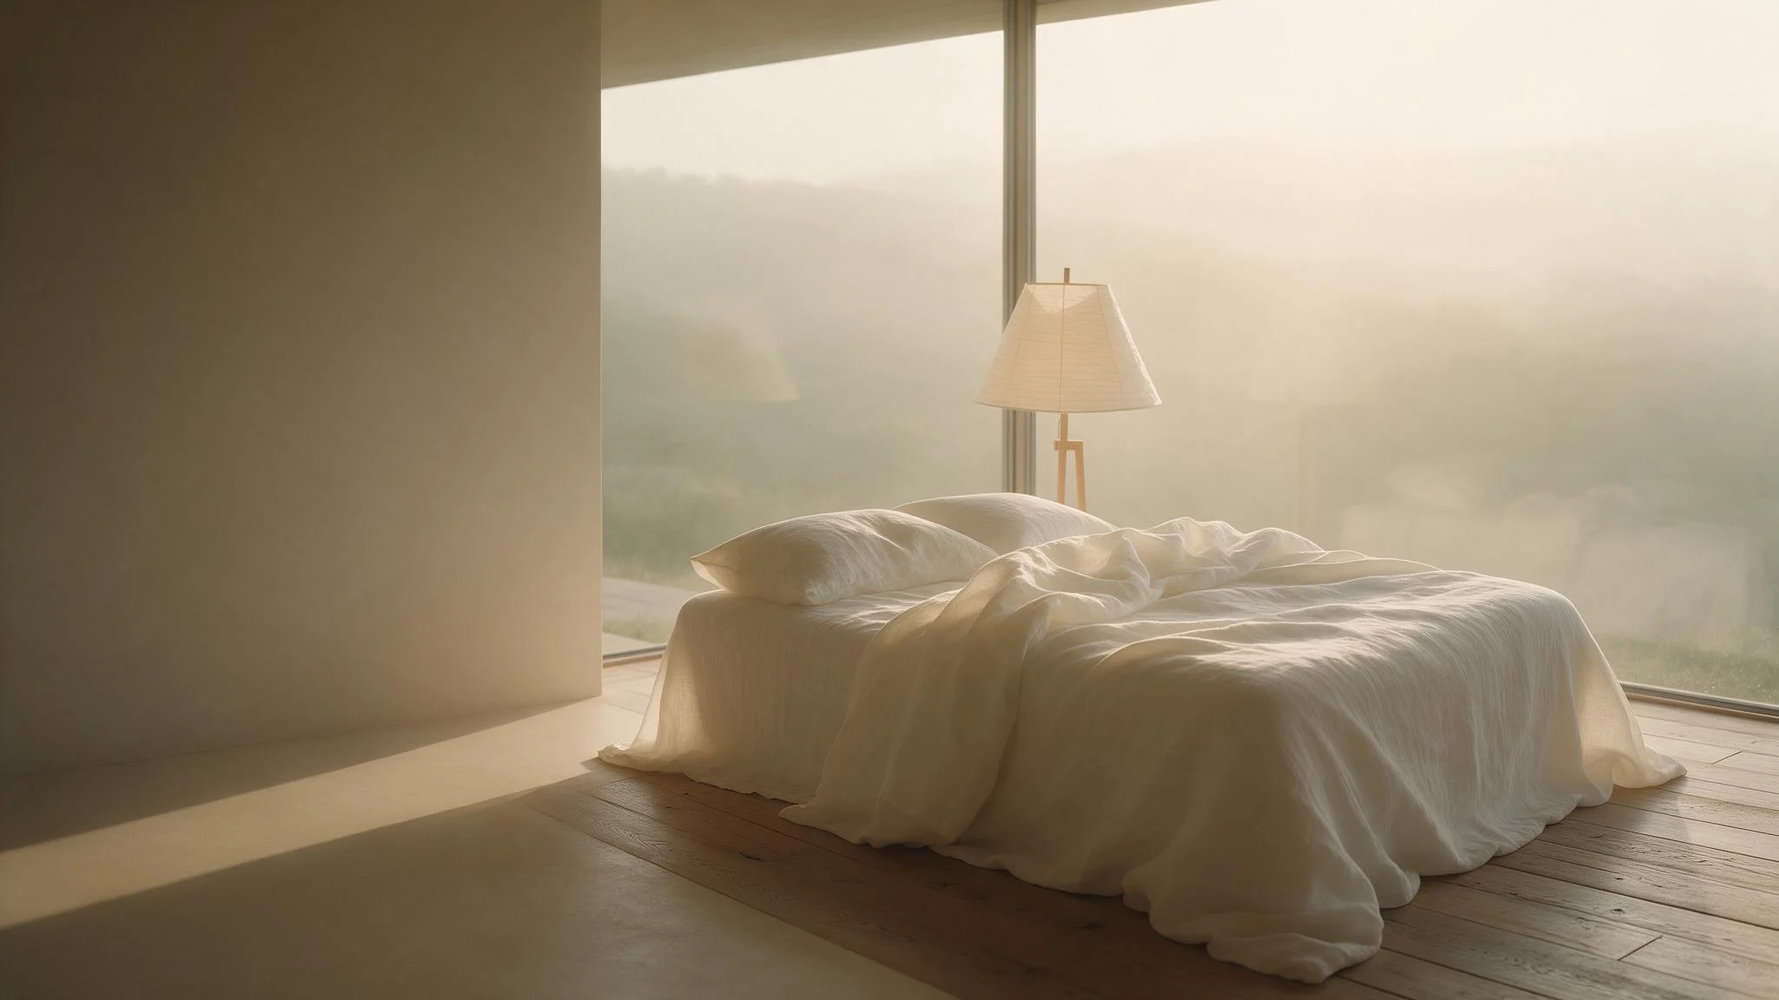
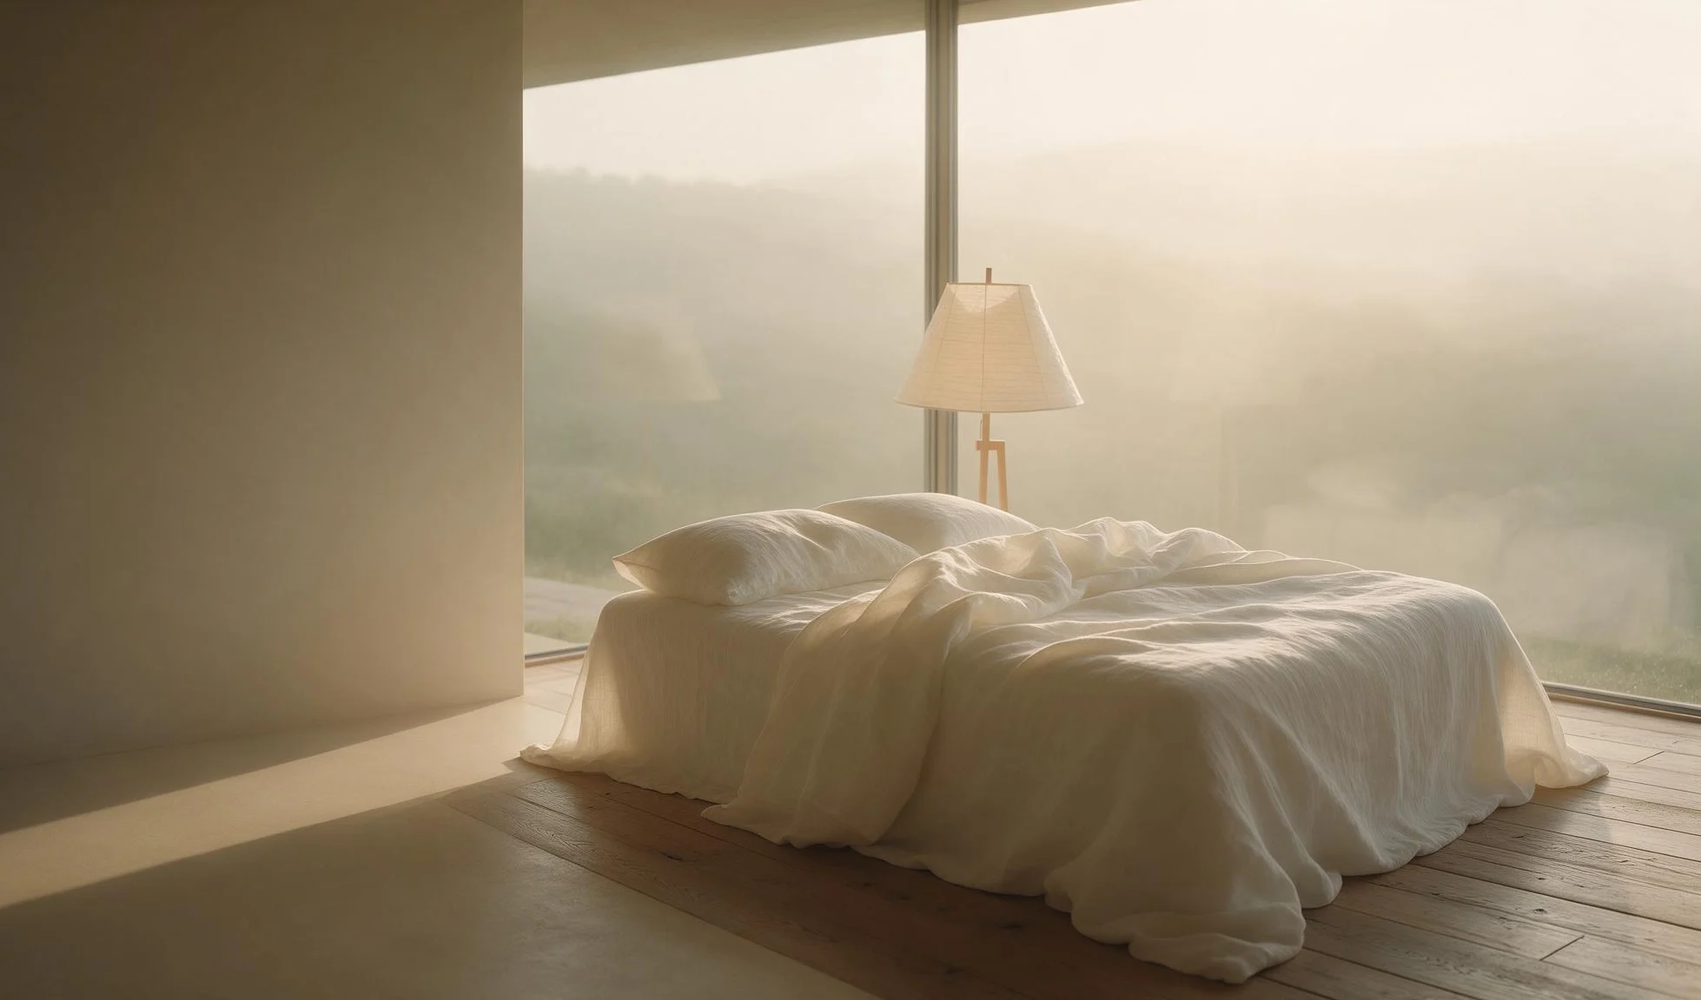
hero: B版微调定稿——全端去滤镜、导航深炭色、桌面左裁90px
- V2Hero: 全端去除渐变暗罩；桌面标题 5xl 两行左下（左移200px+上移70px）；
  移动端文字上移至中部偏上（pb-9svh）
- V2Header: 透明态导航文字/图标全端改深炭色；logo 桌面反白、移动深色原图
- hero-mist-desktop: 源图左裁 90px，右窗景加宽；hero-mist-mobile: 左裁15%（灯靠中）
- gitignore: 新增 scripts/.ark-api-key-2（第二把火山引擎 key，本地切换用）

diff --git a/src/data/product-weights.ts b/src/data/product-weights.ts
@@ -1,6 +1,6 @@
 // Auto-generated by scripts/build-weights.js
 // DO NOT EDIT MANUALLY - 人工赋权改 src/data/weights-overrides.ts 后重跑本脚本
-// Generated at: 2026-10-27T11:22:00.319Z
+// Generated at: 2026-10-27T13:19:45.616Z
 
 export interface ProductWeight {
   /** 一级类目（同分破平用类目平均分） */
@@ -67,11 +67,11 @@ export const PRODUCT_WEIGHTS: Record<string, ProductWeight> = {
   "mk-pc-cord-olive-45": {"type":"Pillows","score":26.3,"perf":26.3,"boost":0},
   "mk-pc-cord-dustyblue": {"type":"Pillows","score":26.4,"perf":26.4,"boost":0},
   "mk-pc-cord-dustyblue-45": {"type":"Pillows","score":26.2,"perf":26.2,"boost":0},
-  "mk-pc-cord-charcoal": {"type":"Pillows","score":25.9,"perf":25.9,"boost":0},
+  "mk-pc-cord-charcoal": {"type":"Pillows","score":25.8,"perf":25.8,"boost":0},
   "mk-pc-cord-charcoal-45": {"type":"Pillows","score":26.3,"perf":26.3,"boost":0},
-  "mk-pc-ctn-sage": {"type":"Pillows","score":26.1,"perf":26.1,"boost":0},
+  "mk-pc-ctn-sage": {"type":"Pillows","score":26,"perf":26,"boost":0},
   "mk-pc-ctn-sage-45": {"type":"Pillows","score":25.9,"perf":25.9,"boost":0},
-  "mk-pc-ctn-cream": {"type":"Pillows","score":26.1,"perf":26.1,"boost":0},
+  "mk-pc-ctn-cream": {"type":"Pillows","score":26,"perf":26,"boost":0},
   "mk-pc-ctn-cream-45": {"type":"Pillows","score":26,"perf":26,"boost":0},
   "mk-pc-ctn-blush": {"type":"Pillows","score":26.1,"perf":26.1,"boost":0},
   "mk-pc-ctn-blush-45": {"type":"Pillows","score":26.1,"perf":26.1,"boost":0},
@@ -84,44 +84,44 @@ export const PRODUCT_WEIGHTS: Record<string, ProductWeight> = {
   "mk-cushion-cord-olive": {"type":"Cushions","score":21.1,"perf":21.1,"boost":0},
   "mk-cushion-cord-dustyblue": {"type":"Cushions","score":21.1,"perf":21.1,"boost":0},
   "mk-pc-boucle-white-45": {"type":"Pillows","score":28.6,"perf":28.6,"boost":0},
-  "mk-pc-boucle-oatmeal-45": {"type":"Pillows","score":28.7,"perf":28.7,"boost":0},
-  "mk-pc-boucle-dustyrose-45": {"type":"Pillows","score":28.5,"perf":28.5,"boost":0},
+  "mk-pc-boucle-oatmeal-45": {"type":"Pillows","score":28.6,"perf":28.6,"boost":0},
+  "mk-pc-boucle-dustyrose-45": {"type":"Pillows","score":28.4,"perf":28.4,"boost":0},
   "mk-pc-boucle-sage-45": {"type":"Pillows","score":28.1,"perf":28.1,"boost":0},
   "mk-pc-boucle-white": {"type":"Pillows","score":28.7,"perf":28.7,"boost":0},
   "mk-pc-boucle-oatmeal": {"type":"Pillows","score":28.3,"perf":28.3,"boost":0},
   "mk-pc-boucle-dustyrose": {"type":"Pillows","score":28.7,"perf":28.7,"boost":0},
   "mk-pc-boucle-sage": {"type":"Pillows","score":28.3,"perf":28.3,"boost":0},
   "mk-towel-lsc-cream-12x12": {"type":"Towels","score":16,"perf":16,"boost":0},
-  "mk-towel-lsc-cream-20x30": {"type":"Towels","score":16.1,"perf":16.1,"boost":0},
-  "mk-towel-lsc-cream-30x56": {"type":"Towels","score":16.1,"perf":16.1,"boost":0},
-  "mk-towel-lsc-cream-40x70": {"type":"Towels","score":16.1,"perf":16.1,"boost":0},
-  "mk-towel-lsc-oatmeal-12x12": {"type":"Towels","score":16.1,"perf":16.1,"boost":0},
-  "mk-towel-lsc-oatmeal-20x30": {"type":"Towels","score":16.1,"perf":16.1,"boost":0},
-  "mk-towel-lsc-oatmeal-30x56": {"type":"Towels","score":16.1,"perf":16.1,"boost":0},
-  "mk-towel-lsc-oatmeal-40x70": {"type":"Towels","score":16.1,"perf":16.1,"boost":0},
-  "mk-towel-lsc-sage-12x12": {"type":"Towels","score":16.1,"perf":16.1,"boost":0},
-  "mk-towel-lsc-sage-20x30": {"type":"Towels","score":16.1,"perf":16.1,"boost":0},
-  "mk-towel-lsc-sage-30x56": {"type":"Towels","score":16.1,"perf":16.1,"boost":0},
-  "mk-towel-lsc-sage-40x70": {"type":"Towels","score":16.1,"perf":16.1,"boost":0},
-  "mk-towel-lsc-dustyrose-12x12": {"type":"Towels","score":16.1,"perf":16.1,"boost":0},
-  "mk-towel-lsc-dustyrose-20x30": {"type":"Towels","score":16.1,"perf":16.1,"boost":0},
-  "mk-towel-lsc-dustyrose-30x56": {"type":"Towels","score":16.1,"perf":16.1,"boost":0},
-  "mk-towel-lsc-dustyrose-40x70": {"type":"Towels","score":16.1,"perf":16.1,"boost":0},
-  "mk-towel-lsc-lightgrey-12x12": {"type":"Towels","score":16.1,"perf":16.1,"boost":0},
-  "mk-towel-lsc-lightgrey-20x30": {"type":"Towels","score":16.1,"perf":16.1,"boost":0},
-  "mk-towel-lsc-lightgrey-30x56": {"type":"Towels","score":16.1,"perf":16.1,"boost":0},
-  "mk-towel-lsc-lightgrey-40x70": {"type":"Towels","score":16.1,"perf":16.1,"boost":0},
-  "mk-towel-lsc-dustyblue-12x12": {"type":"Towels","score":16.1,"perf":16.1,"boost":0},
-  "mk-towel-lsc-dustyblue-20x30": {"type":"Towels","score":16.1,"perf":16.1,"boost":0},
-  "mk-towel-lsc-dustyblue-30x56": {"type":"Towels","score":16.1,"perf":16.1,"boost":0},
-  "mk-towel-lsc-dustyblue-40x70": {"type":"Towels","score":16.1,"perf":16.1,"boost":0},
+  "mk-towel-lsc-cream-20x30": {"type":"Towels","score":16,"perf":16,"boost":0},
+  "mk-towel-lsc-cream-30x56": {"type":"Towels","score":16,"perf":16,"boost":0},
+  "mk-towel-lsc-cream-40x70": {"type":"Towels","score":16,"perf":16,"boost":0},
+  "mk-towel-lsc-oatmeal-12x12": {"type":"Towels","score":16,"perf":16,"boost":0},
+  "mk-towel-lsc-oatmeal-20x30": {"type":"Towels","score":16,"perf":16,"boost":0},
+  "mk-towel-lsc-oatmeal-30x56": {"type":"Towels","score":16,"perf":16,"boost":0},
+  "mk-towel-lsc-oatmeal-40x70": {"type":"Towels","score":16,"perf":16,"boost":0},
+  "mk-towel-lsc-sage-12x12": {"type":"Towels","score":16,"perf":16,"boost":0},
+  "mk-towel-lsc-sage-20x30": {"type":"Towels","score":16,"perf":16,"boost":0},
+  "mk-towel-lsc-sage-30x56": {"type":"Towels","score":16,"perf":16,"boost":0},
+  "mk-towel-lsc-sage-40x70": {"type":"Towels","score":16,"perf":16,"boost":0},
+  "mk-towel-lsc-dustyrose-12x12": {"type":"Towels","score":16,"perf":16,"boost":0},
+  "mk-towel-lsc-dustyrose-20x30": {"type":"Towels","score":16,"perf":16,"boost":0},
+  "mk-towel-lsc-dustyrose-30x56": {"type":"Towels","score":16,"perf":16,"boost":0},
+  "mk-towel-lsc-dustyrose-40x70": {"type":"Towels","score":16,"perf":16,"boost":0},
+  "mk-towel-lsc-lightgrey-12x12": {"type":"Towels","score":16,"perf":16,"boost":0},
+  "mk-towel-lsc-lightgrey-20x30": {"type":"Towels","score":16,"perf":16,"boost":0},
+  "mk-towel-lsc-lightgrey-30x56": {"type":"Towels","score":16,"perf":16,"boost":0},
+  "mk-towel-lsc-lightgrey-40x70": {"type":"Towels","score":16,"perf":16,"boost":0},
+  "mk-towel-lsc-dustyblue-12x12": {"type":"Towels","score":16,"perf":16,"boost":0},
+  "mk-towel-lsc-dustyblue-20x30": {"type":"Towels","score":16,"perf":16,"boost":0},
+  "mk-towel-lsc-dustyblue-30x56": {"type":"Towels","score":16,"perf":16,"boost":0},
+  "mk-towel-lsc-dustyblue-40x70": {"type":"Towels","score":16,"perf":16,"boost":0},
   "linen3-caramel-queen": {"type":"Bedding","score":9.7,"perf":9.7,"boost":0},
   "b0f62y3xt9": {"type":"Pillows","score":21.8,"perf":21.8,"boost":0},
   "b0f62zy8zn": {"type":"Pillows","score":21.8,"perf":21.8,"boost":0},
-  "b0gjlpxb6f": {"type":"Cushions","score":45.9,"perf":21.9,"boost":24},
+  "b0gjlpxb6f": {"type":"Cushions","score":45.8,"perf":21.8,"boost":24},
   "b0gjlrgvdj": {"type":"Cushions","score":20.4,"perf":20.4,"boost":0},
   "b0gjsttgy5": {"type":"Cushions","score":20.4,"perf":20.4,"boost":0},
-  "b0f1ydrdtx": {"type":"Cushions","score":21.9,"perf":21.9,"boost":0},
+  "b0f1ydrdtx": {"type":"Cushions","score":21.8,"perf":21.8,"boost":0},
   "b0f1v8vmp4": {"type":"Cushions","score":22.4,"perf":22.4,"boost":0},
   "b0dsgfxldv": {"type":"Cushions","score":19,"perf":19,"boost":0},
   "b0dsgclbvw": {"type":"Cushions","score":19,"perf":19,"boost":0},
@@ -129,7 +129,7 @@ export const PRODUCT_WEIGHTS: Record<string, ProductWeight> = {
   "b0dsgckwxw": {"type":"Cushions","score":19,"perf":19,"boost":0},
   "b0cbt8fzwf": {"type":"Cushions","score":19,"perf":19,"boost":0},
   "b0gxwm4n7j": {"type":"Pillows","score":22.5,"perf":22.5,"boost":0},
-  "b0gd87zbn9": {"type":"Pillows","score":22.5,"perf":22.5,"boost":0},
+  "b0gd87zbn9": {"type":"Pillows","score":22.4,"perf":22.4,"boost":0},
   "b0g6lxsf4t": {"type":"Pillows","score":21.7,"perf":21.7,"boost":0},
   "b0gd846fs2": {"type":"Pillows","score":23,"perf":23,"boost":0},
   "b0bcjw18sp": {"type":"Cushions","score":21,"perf":21,"boost":0},
@@ -140,32 +140,32 @@ export const PRODUCT_WEIGHTS: Record<string, ProductWeight> = {
   "828008656438-c2": {"type":"Mats","score":22.2,"perf":22.2,"boost":0},
   "952595759182": {"type":"Towels","score":19.3,"perf":19.3,"boost":0},
   "952595759182-c2": {"type":"Towels","score":20.6,"perf":20.6,"boost":0},
-  "952595759182-c3": {"type":"Towels","score":20.8,"perf":20.8,"boost":0},
-  "952595759182-c4": {"type":"Towels","score":19.3,"perf":19.3,"boost":0},
+  "952595759182-c3": {"type":"Towels","score":20.7,"perf":20.7,"boost":0},
+  "952595759182-c4": {"type":"Towels","score":19.2,"perf":19.2,"boost":0},
   "828008656438": {"type":"Mats","score":22.3,"perf":22.3,"boost":0},
   "1038477616596": {"type":"Mats","score":20.9,"perf":20.9,"boost":0},
   "985677811504": {"type":"Mats","score":22.9,"perf":22.9,"boost":0},
   "1016436401519": {"type":"Mats","score":22.9,"perf":22.9,"boost":0},
   "1038477616596-c2": {"type":"Mats","score":20.2,"perf":20.2,"boost":0},
   "895014679429": {"type":"Mats","score":21.5,"perf":21.5,"boost":0},
-  "1046667161713": {"type":"Mats","score":22.3,"perf":22.3,"boost":0},
+  "1046667161713": {"type":"Mats","score":22.2,"perf":22.2,"boost":0},
   "1064068114006": {"type":"Mats","score":23,"perf":23,"boost":0},
   "1064068114006-c2": {"type":"Mats","score":23.6,"perf":23.6,"boost":0},
   "1052755373494": {"type":"Mats","score":48.5,"perf":23.5,"boost":25},
   "1052755373494-c2": {"type":"Mats","score":23,"perf":23,"boost":0},
-  "1046667161713-c2": {"type":"Mats","score":21.8,"perf":21.8,"boost":0},
+  "1046667161713-c2": {"type":"Mats","score":21.7,"perf":21.7,"boost":0},
   "969627065032-c33": {"type":"Blankets","score":21.7,"perf":21.7,"boost":0},
   "744995685423-c2": {"type":"Mats","score":21.7,"perf":21.7,"boost":0},
   "595229918569-c2": {"type":"Mats","score":23.2,"perf":23.2,"boost":0},
   "744995685423": {"type":"Mats","score":21.7,"perf":21.7,"boost":0},
   "595229918569": {"type":"Mats","score":21.7,"perf":21.7,"boost":0},
   "745181807454-c3": {"type":"Mats","score":21.7,"perf":21.7,"boost":0},
-  "745181807454-c2": {"type":"Mats","score":22.5,"perf":22.5,"boost":0},
+  "745181807454-c2": {"type":"Mats","score":22.4,"perf":22.4,"boost":0},
   "996768645117": {"type":"Mats","score":21.7,"perf":21.7,"boost":0},
   "745181807454": {"type":"Mats","score":23.1,"perf":23.1,"boost":0},
   "996768645117-c2": {"type":"Mats","score":23.9,"perf":23.9,"boost":0},
   "996768645117-c3": {"type":"Mats","score":48.9,"perf":23.9,"boost":25},
-  "595229918569-c3": {"type":"Mats","score":23.3,"perf":23.3,"boost":0},
+  "595229918569-c3": {"type":"Mats","score":23.2,"perf":23.2,"boost":0},
   "745181807454-c4": {"type":"Mats","score":23.2,"perf":23.2,"boost":0},
   "745181807454-c6": {"type":"Mats","score":23.9,"perf":23.9,"boost":0},
   "745181807454-c5": {"type":"Mats","score":49,"perf":24,"boost":25},
@@ -182,10 +182,10 @@ export const PRODUCT_WEIGHTS: Record<string, ProductWeight> = {
   "969627065032-c37": {"type":"Blankets","score":24.5,"perf":24.5,"boost":0},
   "969627065032-c36": {"type":"Blankets","score":23.2,"perf":23.2,"boost":0},
   "969627065032-c35": {"type":"Blankets","score":24,"perf":24,"boost":0},
-  "969627065032-c34": {"type":"Blankets","score":23.8,"perf":23.8,"boost":0},
+  "969627065032-c34": {"type":"Blankets","score":23.7,"perf":23.7,"boost":0},
   "969627065032-c32": {"type":"Blankets","score":49,"perf":24,"boost":25},
   "969627065032-c31": {"type":"Blankets","score":24,"perf":24,"boost":0},
-  "969627065032-c30": {"type":"Blankets","score":23.9,"perf":23.9,"boost":0},
+  "969627065032-c30": {"type":"Blankets","score":23.8,"perf":23.8,"boost":0},
   "969627065032-c29": {"type":"Blankets","score":24.7,"perf":24.7,"boost":0},
   "969627065032-c28": {"type":"Blankets","score":48.8,"perf":23.8,"boost":25},
   "969627065032-c27": {"type":"Blankets","score":24,"perf":24,"boost":0},
@@ -218,7 +218,7 @@ export const PRODUCT_WEIGHTS: Record<string, ProductWeight> = {
   "duvset-white-queen": {"type":"Bedding","score":25.2,"perf":25.2,"boost":0},
   "duvset-white-twin": {"type":"Bedding","score":53.9,"perf":23.9,"boost":30},
   "bedset4-lilac-twin": {"type":"Bedding","score":25.2,"perf":25.2,"boost":0},
-  "bedset4-lilac-full": {"type":"Bedding","score":25.3,"perf":25.3,"boost":0},
+  "bedset4-lilac-full": {"type":"Bedding","score":25.2,"perf":25.2,"boost":0},
   "bedset4-lilac-queen": {"type":"Bedding","score":26,"perf":26,"boost":0},
   "bedset4-lilac-king": {"type":"Bedding","score":24.1,"perf":24.1,"boost":0},
   "bedset4-slate-twin": {"type":"Bedding","score":26.1,"perf":26.1,"boost":0},
@@ -226,14 +226,14 @@ export const PRODUCT_WEIGHTS: Record<string, ProductWeight> = {
   "bedset4-slate-queen": {"type":"Bedding","score":56,"perf":26,"boost":30},
   "bedset4-slate-king": {"type":"Bedding","score":26.1,"perf":26.1,"boost":0},
   "bedset4-tan-twin": {"type":"Bedding","score":24.8,"perf":24.8,"boost":0},
-  "bedset4-tan-full": {"type":"Bedding","score":23.4,"perf":23.4,"boost":0},
+  "bedset4-tan-full": {"type":"Bedding","score":23.3,"perf":23.3,"boost":0},
   "bedset4-tan-queen": {"type":"Bedding","score":26.1,"perf":26.1,"boost":0},
   "bedset4-tan-king": {"type":"Bedding","score":24.1,"perf":24.1,"boost":0},
   "bedset4-sage-twin": {"type":"Bedding","score":24.9,"perf":24.9,"boost":0},
   "bedset4-sage-full": {"type":"Bedding","score":23.4,"perf":23.4,"boost":0},
   "bedset4-sage-queen": {"type":"Bedding","score":55.2,"perf":25.2,"boost":30},
   "bedset4-sage-king": {"type":"Bedding","score":24.7,"perf":24.7,"boost":0},
-  "bedset4-mauve-twin": {"type":"Bedding","score":23.4,"perf":23.4,"boost":0},
+  "bedset4-mauve-twin": {"type":"Bedding","score":23.3,"perf":23.3,"boost":0},
   "bedset4-mauve-full": {"type":"Bedding","score":23.9,"perf":23.9,"boost":0},
   "bedset4-mauve-queen": {"type":"Bedding","score":26.9,"perf":26.9,"boost":0},
   "bedset4-mauve-king": {"type":"Bedding","score":23.4,"perf":23.4,"boost":0},
@@ -241,7 +241,7 @@ export const PRODUCT_WEIGHTS: Record<string, ProductWeight> = {
   "bedset4-moss-full": {"type":"Bedding","score":24.1,"perf":24.1,"boost":0},
   "bedset4-moss-queen": {"type":"Bedding","score":54.9,"perf":24.9,"boost":30},
   "bedset4-moss-king": {"type":"Bedding","score":23.3,"perf":23.3,"boost":0},
-  "bedset4-coffee-twin": {"type":"Bedding","score":23.3,"perf":23.3,"boost":0},
+  "bedset4-coffee-twin": {"type":"Bedding","score":23.2,"perf":23.2,"boost":0},
   "bedset4-coffee-full": {"type":"Bedding","score":24,"perf":24,"boost":0},
   "bedset4-coffee-queen": {"type":"Bedding","score":53.4,"perf":23.4,"boost":30},
   "bedset4-coffee-king": {"type":"Bedding","score":26.9,"perf":26.9,"boost":0},
@@ -250,10 +250,10 @@ export const PRODUCT_WEIGHTS: Record<string, ProductWeight> = {
   "bedset4-blue-queen": {"type":"Bedding","score":53.4,"perf":23.4,"boost":30},
   "bedset4-blue-king": {"type":"Bedding","score":24.9,"perf":24.9,"boost":0},
   "bedset4-plaid-twin": {"type":"Bedding","score":25.4,"perf":25.4,"boost":0},
-  "bedset4-plaid-full": {"type":"Bedding","score":23.4,"perf":23.4,"boost":0},
+  "bedset4-plaid-full": {"type":"Bedding","score":23.3,"perf":23.3,"boost":0},
   "bedset4-plaid-queen": {"type":"Bedding","score":54.1,"perf":24.1,"boost":30},
   "bedset4-plaid-king": {"type":"Bedding","score":53.4,"perf":23.4,"boost":30},
-  "linen3-sage-twin": {"type":"Bedding","score":57.2,"perf":27.2,"boost":30},
+  "linen3-sage-twin": {"type":"Bedding","score":57.1,"perf":27.1,"boost":30},
   "linen3-sage-full": {"type":"Bedding","score":26.5,"perf":26.5,"boost":0},
   "linen3-sage-queen": {"type":"Bedding","score":55.8,"perf":25.8,"boost":30},
   "linen3-sage-king": {"type":"Bedding","score":26.3,"perf":26.3,"boost":0},
@@ -268,8 +268,8 @@ export const PRODUCT_WEIGHTS: Record<string, ProductWeight> = {
   "linen3-ivory-twin": {"type":"Bedding","score":25.7,"perf":25.7,"boost":0},
   "linen3-ivory-full": {"type":"Bedding","score":27.1,"perf":27.1,"boost":0},
   "linen3-ivory-queen": {"type":"Bedding","score":57.2,"perf":27.2,"boost":30},
-  "linen3-ivory-king": {"type":"Bedding","score":27.1,"perf":27.1,"boost":0},
-  "linen3-oatmeal-twin": {"type":"Bedding","score":27.3,"perf":27.3,"boost":0},
+  "linen3-ivory-king": {"type":"Bedding","score":27,"perf":27,"boost":0},
+  "linen3-oatmeal-twin": {"type":"Bedding","score":27.2,"perf":27.2,"boost":0},
   "linen3-oatmeal-full": {"type":"Bedding","score":25.8,"perf":25.8,"boost":0},
   "linen3-oatmeal-queen": {"type":"Bedding","score":56.4,"perf":26.4,"boost":30},
   "linen3-oatmeal-king": {"type":"Bedding","score":27,"perf":27,"boost":0},
@@ -281,11 +281,11 @@ export const PRODUCT_WEIGHTS: Record<string, ProductWeight> = {
   "899672152256-c52": {"type":"Decor","score":26.6,"perf":26.6,"boost":0},
   "899672152256-c61": {"type":"Decor","score":27.5,"perf":27.5,"boost":0},
   "899672152256-c70": {"type":"Decor","score":26,"perf":26,"boost":0},
-  "899672152256-c78": {"type":"Decor","score":26,"perf":26,"boost":0},
+  "899672152256-c78": {"type":"Decor","score":25.9,"perf":25.9,"boost":0},
   "899672152256-c85": {"type":"Decor","score":26,"perf":26,"boost":0},
   "743606980882-c2": {"type":"Decor","score":22,"perf":22,"boost":0},
-  "743606980882-c10": {"type":"Decor","score":26.8,"perf":26.8,"boost":0},
-  "743606980882-c20": {"type":"Decor","score":27.5,"perf":27.5,"boost":0},
+  "743606980882-c10": {"type":"Decor","score":26.7,"perf":26.7,"boost":0},
+  "743606980882-c20": {"type":"Decor","score":27.4,"perf":27.4,"boost":0},
   "743606980882-c32": {"type":"Decor","score":25.8,"perf":25.8,"boost":0},
   "743606980882-c41": {"type":"Decor","score":26,"perf":26,"boost":0},
   "743606980882-c52": {"type":"Decor","score":26.7,"perf":26.7,"boost":0},
@@ -297,15 +297,15 @@ export const PRODUCT_WEIGHTS: Record<string, ProductWeight> = {
   "663341114084-c3": {"type":"Decor","score":26,"perf":26,"boost":0},
   "807393887857-c2": {"type":"Decor","score":27.4,"perf":27.4,"boost":0},
   "807393887857-c3": {"type":"Decor","score":27.3,"perf":27.3,"boost":0},
-  "807393887857-c4": {"type":"Decor","score":26,"perf":26,"boost":0},
+  "807393887857-c4": {"type":"Decor","score":25.9,"perf":25.9,"boost":0},
   "807393887857-c5": {"type":"Decor","score":27.5,"perf":27.5,"boost":0},
   "807393887857-c6": {"type":"Decor","score":26,"perf":26,"boost":0},
   "1052742241013-c12": {"type":"Mats","score":26.5,"perf":26.5,"boost":0},
   "1052742241013-c11": {"type":"Mats","score":25,"perf":25,"boost":0},
-  "1052742241013-c10": {"type":"Mats","score":26.5,"perf":26.5,"boost":0},
+  "1052742241013-c10": {"type":"Mats","score":26.4,"perf":26.4,"boost":0},
   "1052742241013-c9": {"type":"Mats","score":25,"perf":25,"boost":0},
   "1052742241013-c8": {"type":"Mats","score":26.4,"perf":26.4,"boost":0},
-  "1052742241013-c7": {"type":"Mats","score":25,"perf":25,"boost":0},
+  "1052742241013-c7": {"type":"Mats","score":24.9,"perf":24.9,"boost":0},
   "730512046265-c19": {"type":"Decor","score":27,"perf":27,"boost":0},
   "730512046265-c18": {"type":"Decor","score":25.8,"perf":25.8,"boost":0},
   "730512046265-c17": {"type":"Decor","score":28.5,"perf":28.5,"boost":0},

diff --git a/src/components/v2/V2Hero.tsx b/src/components/v2/V2Hero.tsx
@@ -30,14 +30,12 @@ export default function V2Hero() {
           aria-hidden="true"
         />
 
-        {/* 渐变暗罩：底部深、顶部浅，保证下方 cream 文案可读（仅移动端；桌面端 2026-10-27 用户定不加滤镜） */}
-        <div className="absolute inset-0 bg-gradient-to-t from-charcoal/70 via-charcoal/25 to-charcoal/10 lg:hidden" />
+        {/* 渐变暗罩：2026-10-27 用户定全端去除（桌面配深炭色导航；移动端文字压在薄雾/床品上直读） */}
       </div>
 
-      {/* Text content：ins 版只留一行品牌标语 + Shop Beddings 按钮（2026-10-08 用户定恢复按钮）；
-          移动端文字位置 pb-[12svh]（2026-10-27 用户定在 17svh 基础上再下移）；
-          桌面端 2026-10-27 用户定：文字缩小、放到左下角墙面位置（justify-end + pb + lg:px-4 左移） */}
-      <div className="relative z-10 h-full max-w-[1400px] mx-auto px-6 lg:px-4 lg:-translate-x-[min(200px,calc((100vw-1400px)/2))] flex flex-col justify-end pb-[12svh] lg:pb-[10vh]">
+      {/* Text content：移动端 justify-center + pb-[2svh]（文字按钮在床的上部）；
+          桌面端 2026-10-27 用户定：缩小至 5xl、向下向左放（justify-end + 左移 200px，窄屏 min() 保护）、'Every Day' 换行 */}
+      <div className="relative z-10 h-full max-w-[1400px] mx-auto px-6 lg:px-4 lg:-translate-x-[min(200px,calc((100vw-1400px)/2))] lg:-translate-y-[70px] flex flex-col justify-center pb-[9svh] lg:justify-end lg:pb-[8vh]">
         <h1
           className="text-3xl sm:text-4xl lg:text-5xl font-extrabold tracking-tight leading-[1.05] text-cream max-w-3xl mb-7 animate-fade-in-up"
         >

diff --git a/src/components/v2/V2Header.tsx b/src/components/v2/V2Header.tsx
@@ -411,11 +411,12 @@ export default function V2Header({ catStyles = {} }: V2HeaderProps) {
   // 透明头部叠在大图上与面板不协调）
   const solid = scrolled || !transparentStart || openMenu !== '' || searchOpen;
 
-  // 透明态（首屏大图）：移动端 cream 文字；桌面端 2026-10-27 用户定深炭色（hero 去滤镜后窗景亮，cream 看不清）
-  const textColor = solid ? 'text-charcoal' : 'text-cream lg:text-charcoal';
+  // 透明态（首屏大图）用 cream 文字，实底后用 charcoal（2026-10-27 桌面深炭色方案随 hero 恢复滤镜一并回退）
+  // 透明态（首屏大图）用深炭色文字（2026-10-27 用户定：全端去滤镜后 hero 背景明亮，cream 看不清），实底后同为 charcoal
+  const textColor = 'text-charcoal';
   const iconHover = solid
     ? 'hover:bg-brand/10 hover:text-brand'
-    : 'hover:bg-cream/15 hover:text-cream lg:hover:bg-charcoal/10 lg:hover:text-charcoal';
+    : 'hover:bg-charcoal/10 hover:text-charcoal';
 
   return (
     <>
@@ -478,7 +479,7 @@ export default function V2Header({ catStyles = {} }: V2HeaderProps) {
             <img
               src={resolveUrl('/images/brand/makimoo-logo.webp')}
               alt="Makimoo"
-              className={`h-10 lg:h-14 w-auto object-contain transition-all duration-300 ${solid ? '' : '[filter:brightness(0)_invert(1)]'}`}
+              className={`h-10 lg:h-14 w-auto object-contain transition-all duration-300 ${solid ? '' : 'lg:[filter:brightness(0)_invert(1)]'}`}
             />
           </a>
 

diff --git a/src/data/shopify-map.ts b/src/data/shopify-map.ts
@@ -1,6 +1,6 @@
 // Auto-generated by scripts/build-shopify-map.js
 // DO NOT EDIT MANUALLY - Run 'node scripts/build-shopify-map.js' to update
-// Generated at: 2026-10-27T11:21:59.627Z
+// Generated at: 2026-10-27T13:19:44.863Z
 
 export interface ShopifyProductEntry {
   variantId: string;
